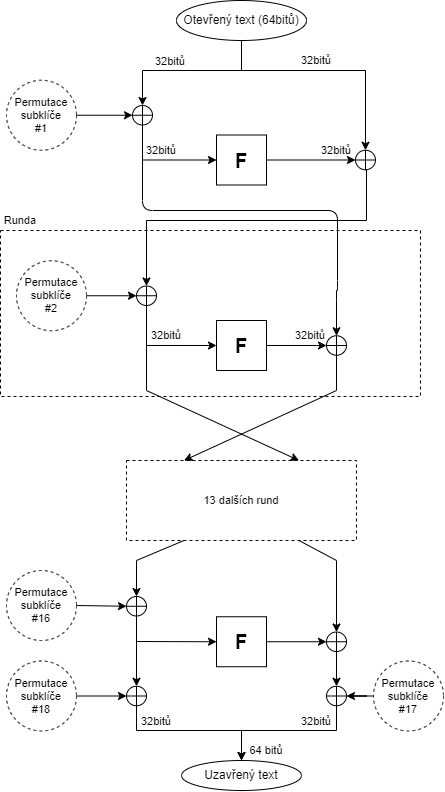
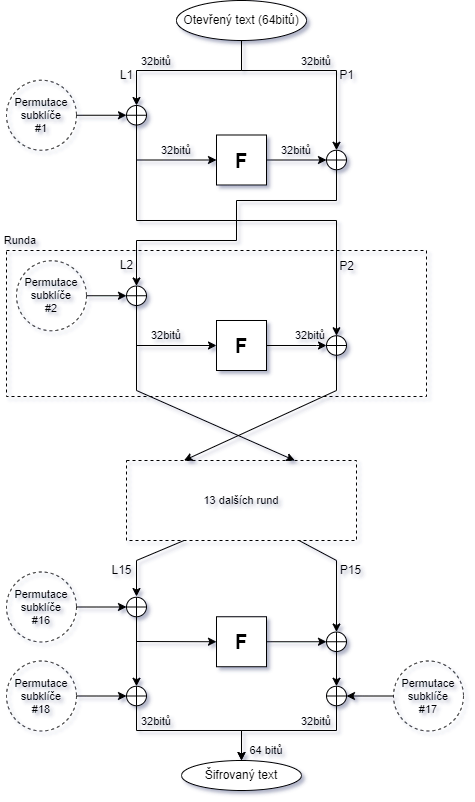
feat: blowfish frontend improvements

diff --git a/resources/views/symmetricCiphers/blowfishCipher.blade.php b/resources/views/symmetricCiphers/blowfishCipher.blade.php
@@ -88,17 +88,31 @@
                 <hr/>
                 <div class="row align-items-start">
                     <div class="col-lg-5">
-                        <h4><i class="fa-solid fa-keyboard"></i> @lang('baseTexts.insertedText')</h4>
-                        <p>{{$data["text"]}} ({{strlen($data["text"])*8}}bit)</p>
+                        <h4>
+                            <i class="fa-solid fa-keyboard"></i>
+                            @if($result->getOperation() === \App\Algorithms\CipherBase::ALGORITHM_ENCRYPT)
+                                @lang('baseTexts.plainText')
+                            @else
+                                @lang('baseTexts.encryptedText')
+                            @endif
+                        </h4>
+                        <p>{{$data['text']}} ({{strlen($data['text'])*8}}bit)</p>
                     </div>
                     <div class="col-lg-5">
                         <h4><i class="fa-solid fa-key"></i> @lang('baseTexts.key')</h4>
-                        <p>{{$data["key"]}} ({{strlen($data["key"])*8}}bit)</p>
+                        <p>{{$data['key']}} ({{strlen($data['key'])*8}}bit)</p>
                     </div>
                 </div>
                 <div class="row align-items-start">
                     <div class="col-lg">
-                        <h4><i class="fa-solid fa-circle-down"></i> @lang('baseTexts.outputText')</h4>
+                        <h4>
+                            <i class="fa-solid fa-circle-down"></i>
+                            @if($result->getOperation() === \App\Algorithms\CipherBase::ALGORITHM_ENCRYPT)
+                                @lang('baseTexts.encryptedText')
+                            @else
+                                @lang('baseTexts.plainText')
+                            @endif
+                        </h4>
                         <p>{{$result->getOutputValue()}}</p>
                     </div>
                 </div>
@@ -109,7 +123,7 @@
                     @foreach($result->getAdditionalInformation()["subkeys"] as $subkey)
                         <div class="card col-md-2 m-2 p-1">
                             <div class="card-body">
-                                <h4>{{$loop->index+1}}. </h4>
+                                <h4>@lang('baseTexts.key') #{{$loop->index+1}}</h4>
                                 {{base64_encode($subkey)}}
                             </div>
                         </div>
@@ -119,9 +133,11 @@
 
                 <div class="mt-4">
                     <h1><i class="fa-solid fa-list-ol"></i> @lang('baseTexts.algorithmSteps')</h1>
-                    <p>@lang('baseTexts.inputSize') - {{$result->getAdditionalInformation()["inputSize"]}}bit
+                    <p>
+                        @lang('baseTexts.inputSize') - {{$result->getAdditionalInformation()["inputSize"]}}bit
                         ({{ceil($result->getAdditionalInformation()["inputSize"]/64)}} x
-                        64bit {{strtolower(trans("baseTexts.block"))}})</p>
+                        64bit {{strtolower(trans("baseTexts.block"))}})
+                    </p>
                     <div class="accordion" id="blockAccordion">
                         <!-- blocks cycle -->
                         @foreach($result->getSteps() as $block)
@@ -160,30 +176,86 @@
                                                         <div class="accordion-body">
                                                             <div class="d-flex flex-wrap">
                                                                 <div class="col-md-5">
-                                                                    <h3>@lang('blowfishPageTexts.leftInput')</h3>
+                                                                    <h3>
+                                                                        <i class="fa-solid fa-file-lines"></i>
+                                                                        @lang('blowfishPageTexts.leftInput') (@lang('baseTexts.shortLeftSymbol'){{$loop->index + 1}})
+                                                                    </h3>
                                                                     <p>{{$step->getInputLeft()}}</p>
                                                                 </div>
                                                                 <div class="col-md-5">
-                                                                    <h3>@lang('blowfishPageTexts.rightInput')</h3>
+                                                                    <h3>
+                                                                        <i class="fa-solid fa-file-lines"></i>
+                                                                        @lang('blowfishPageTexts.rightInput') (@lang('baseTexts.shortRightSymbol'){{$loop->index + 1}})
+                                                                    </h3>
                                                                     <p>{{$step->getInputRight()}}</p>
                                                                 </div>
                                                             </div>
 
                                                             <hr/>
 
-                                                            @if($loop->last)
+                                                            @if(!$loop->last)
+                                                                <div class="d-flex flex-wrap">
+                                                                    <div class="col-md">
+                                                                        <h3>
+                                                                            <i class="fa-solid fa-key"></i>
+                                                                            @lang('baseTexts.subkey')
+                                                                            #{{$loop->index+1}} (K{{$loop->index+1}})
+                                                                        </h3>
+                                                                        <p>{{$step->getSubkey()}}</p>
+                                                                    </div>
+                                                                </div>
+
+                                                                <hr/>
+                                                                <div
+                                                                    class="d-flex flex-wrap justify-content-start gap-5">
+                                                                    <div class="flex-item">
+                                                                        <h4>
+                                                                            <i class="fa-solid fa-calculator"></i>
+                                                                            @lang('baseTexts.shortLeftSymbol'){{$loop->index + 1}}
+                                                                            ⊕ @lang('baseTexts.shortRightSymbol'){{$loop->index + 1}}
+                                                                        </h4>
+                                                                        <p>{{$step->getLeftBlockAfterXor()}}</p>
+                                                                    </div>
+                                                                    <div>
+                                                                        <h4><i class="fa-solid fa-right-long"></i></h4>
+                                                                    </div>
+                                                                    <div class="flex-item">
+                                                                        <h4>
+                                                                            <i class="fa-solid fa-calculator"></i>
+                                                                            @lang('blowfishPageTexts.rightBlockFeistelOutput')
+                                                                            F(@lang('baseTexts.shortLeftSymbol'){{$loop->index + 1}}
+                                                                            ⊕ K{{$loop->index + 1}})
+                                                                        </h4>
+                                                                        <p>{{$step->getRightBlockAfterFeistel()}}</p>
+                                                                    </div>
+                                                                    <div>
+                                                                        <h4><i class="fa-solid fa-right-long"></i></h4>
+                                                                    </div>
+                                                                    <div class="flex-item">
+                                                                        <h4>
+                                                                            <i class="fa-solid fa-calculator"></i> 
+                                                                            F(@lang('baseTexts.shortLeftSymbol'){{$loop->index + 1}}
+                                                                            ⊕ K{{$loop->index + 1}})
+                                                                            ⊕ @lang('baseTexts.shortRightSymbol'){{$loop->index + 1}}
+                                                                        </h4>
+                                                                        <p>{{$step->getRightBlockAfterXor()}}</p>
+                                                                    </div>
+                                                                </div>
+
+                                                            @else
+
                                                                 <div class="d-flex flex-wrap">
                                                                     <div class="col-md-5">
                                                                         <h3>
                                                                             <i class="fa-solid fa-key"></i> @lang('baseTexts.subkey')
-                                                                            #17</h3>
+                                                                            #17 (K17)</h3>
                                                                         <p>{{$result->getAdditionalInformation()["subkey17"]}}</p>
                                                                     </div>
 
                                                                     <div class="col-md-5">
                                                                         <h3>
                                                                             <i class="fa-solid fa-key"></i> @lang('baseTexts.subkey')
-                                                                            #18</h3>
+                                                                            #18 (K18)</h3>
                                                                         <p>{{$result->getAdditionalInformation()["subkey18"]}}</p>
                                                                     </div>
                                                                 </div>
@@ -191,52 +263,23 @@
                                                                 <hr/>
                                                                 <div class="d-flex flex-wrap">
                                                                     <div class="col-md-5">
-                                                                        <h4>@lang('blowfishPageTexts.leftBlockXorOutput')
-                                                                            #18</h4>
+                                                                        <h4>
+                                                                            <i class="fa-solid fa-calculator"></i>
+                                                                            @lang('baseTexts.shortLeftSymbol')16 ⊕ K18
+                                                                        </h4>
                                                                         <p>{{$step->getLeftBlockAfterXor()}}</p>
                                                                     </div>
                                                                     <div class="col-md-5">
-                                                                        <h4>@lang('blowfishPageTexts.rightBlockXorKeyOutput')
-                                                                            #17</h4>
-                                                                        <p>{{$step->getRightBlockAfterXor()}}</p>
-                                                                    </div>
-                                                                </div>
-                                                            @else
-                                                                <div class="d-flex flex-wrap">
-                                                                    <div class="col-md">
-                                                                        <h3>
-                                                                            <i class="fa-solid fa-key"></i> @lang('baseTexts.subkey')
-                                                                        </h3>
-                                                                        <p>{{$step->getSubkey()}}</p>
-                                                                    </div>
-                                                                </div>
-
-                                                                <hr/>
-                                                                <div class="d-flex flex-wrap justify-content-start gap-5">
-                                                                    <div class="flex-item">
-                                                                        <h4>@lang('blowfishPageTexts.leftBlockXorOutput')</h4>
-                                                                        <p>{{$step->getLeftBlockAfterXor()}}</p>
-                                                                    </div>
-                                                                    <div>
-                                                                        <h4><i class="fa-solid fa-right-long"></i></h4>
-                                                                    </div>
-                                                                    <div class="flex-item">
-                                                                        <h4>@lang('blowfishPageTexts.rightBlockFeistelOutput')</h4>
-                                                                        <p>{{$step->getRightBlockAfterFeistel()}}</p>
-                                                                    </div>
-                                                                    <div>
-                                                                        <h4><i class="fa-solid fa-right-long"></i></h4>
-                                                                    </div>
-                                                                    <div class="flex-item">
-                                                                        <h4>@lang('blowfishPageTexts.rightBlockXorOutput')</h4>
+                                                                        <h4>
+                                                                            <i class="fa-solid fa-calculator"></i>
+                                                                            @lang('baseTexts.shortRightSymbol')16 ⊕ K17
+                                                                        </h4>
                                                                         <p>{{$step->getRightBlockAfterXor()}}</p>
                                                                     </div>
                                                                 </div>
                                                             @endif
-
                                                         </div>
                                                     </div>
-
                                                 </div>
                                             @endforeach
                                         </div>

diff --git a/lang/cz/baseTexts.php b/lang/cz/baseTexts.php
@@ -40,9 +40,10 @@ return [
     'textCannotBeEmpty' => 'Vstupní text musí být vyplněný',
     'actionCannotBeEmpty' => 'Akce musí být zvolena',
     'keyLongerThan448' => 'Klíč nesmí být delší než 448 bitů',
-
-
-    'initVectorDescription' => 'TODO: ADD ME', //TODO ADD THIS TEXT
+    'encryptedText' => 'Zašifrovaný text',
+    'plainText' => 'Otevřený text',
+    'shortLeftSymbol' => 'L',
+    'shortRightSymbol' => 'P',
 
     'notReady' => 'Tato funkce není zatím připravena.',
     '404' => 'Stránka nenalezena!',

diff --git a/lang/en/baseTexts.php b/lang/en/baseTexts.php
@@ -40,11 +40,12 @@ return [
     'textCannotBeEmpty' => 'Input text must be filled in',
     'actionCannotBeEmpty' => 'Action must be choosen',
     'keyLongerThan448' => 'Key cannot be longer than 448-bits',
-
+    'encryptedText' => 'Encrypted text',
+    'plainText' => 'Plain text',
+    'shortLeftSymbol' => 'L',
+    'shortRightSymbol' => 'R',
 
     'initVector' => 'Initialization vector',
-    'initVectorDescription' => 'TODO: ADD ME', //TODO ADD THIS TEXT
-
 
     'notReady' => 'This function is not ready yet.',
 

diff --git a/lang/cz/blowfishPageTexts.php b/lang/cz/blowfishPageTexts.php
@@ -18,7 +18,7 @@ Navzdory svému stáří zůstává Blowfish oblíbeným šifrovacím algoritmem
     'leftInput' => 'Levý blok',
     'rightInput' => 'Pravý blok',
     'leftBlockXorOutput' => 'Levý blok XOR subklíč',
-    'rightBlockFeistelOutput' => 'Výstup Feistelovi funkce',
+    'rightBlockFeistelOutput' => 'Výstup rundovní funkce',
     'rightBlockXorOutput' => 'F funkce XOR pravý blok',
     'rightBlockXorKeyOutput' => 'Pravý blok XOR subklíč',
 ];

diff --git a/lang/en/blowfishPageTexts.php b/lang/en/blowfishPageTexts.php
@@ -18,7 +18,7 @@ Despite its age, Blowfish remains a popular encryption algorithm. It has been th
     'leftInput' => 'Left block',
     'rightInput' => 'Right block',
     'leftBlockXorOutput' => 'Left block XOR subkey',
-    'rightBlockFeistelOutput' => 'Feistel function output',
+    'rightBlockFeistelOutput' => 'Round function output',
     'rightBlockXorOutput' => 'F function output XOR right block',
     'rightBlockXorKeyOutput' => 'Right block XOR subkey',
 ];
